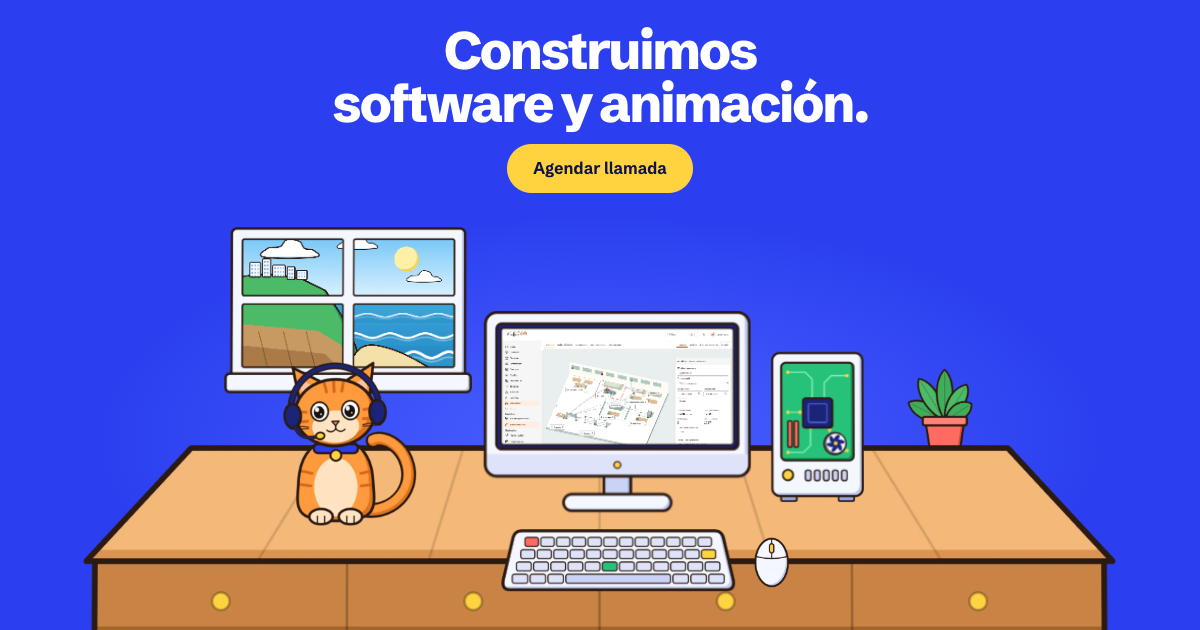
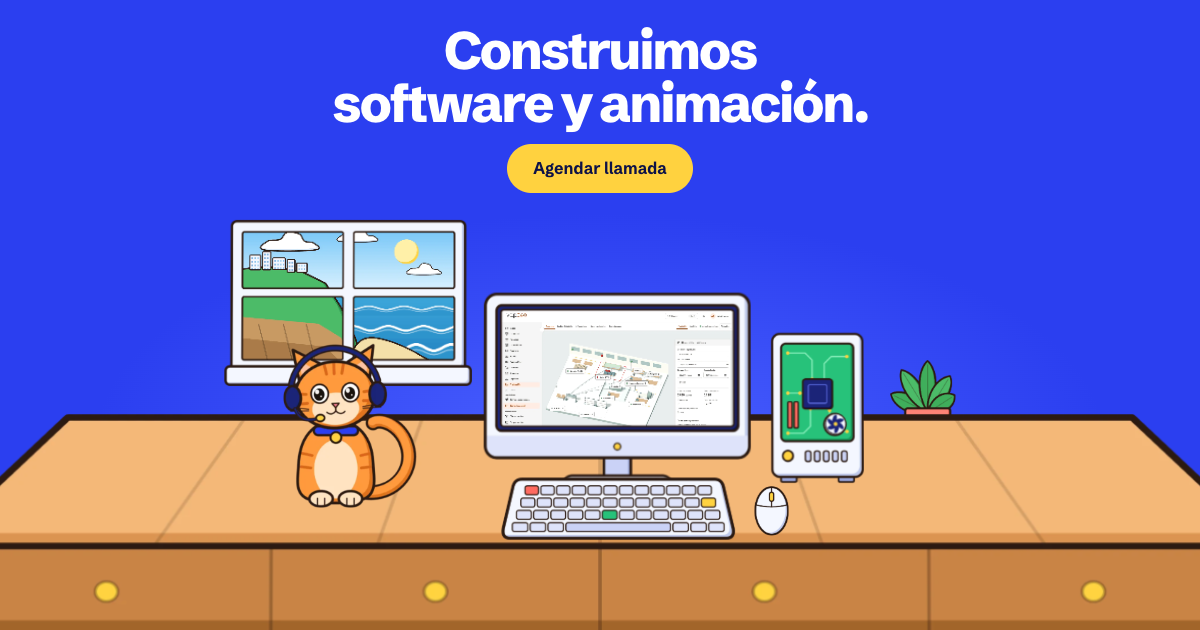
fix: mesa a todo el ancho con todo apoyado; sin buses horizontales; pista amarilla continua; Más proyectos en sección propia conectada a la pista y unida con Animación

Changed region(s): [[0.0, 0.3317, 1.0, 1.0]]

diff --git a/src/styles/home-anim.css b/src/styles/home-anim.css
@@ -356,3 +356,62 @@
   .hm-wave, .hm-fan, .hm-bus-track, .hm-strip-track, .hm-trace-chip--s1, .hm-trace-chip--s2 { animation: none; }
 }
 .hm-s-planta { bottom: 41%; }
+
+/* ============================================
+   v7 — mesa a todo el ancho con todo apoyado encima; una sola pista amarilla continua; «Más proyectos» en sección propia.
+   ============================================ */
+.hm-hero { --sh: min(47.6vw, 66svh); }
+.hm-s-mesa { left: calc(50% - 56vw); width: 112vw; bottom: -2%; height: 54%; }
+.hm-s-mesa img { width: 100%; height: 100%; }
+.hm-s-win { top: -2%; }
+.hm-s-planta { bottom: 43%; left: 84%; }
+.hm-s-torre { bottom: 35.5%; }
+.hm-s-monitor { bottom: 33.5%; }
+.hm-s-apolo { bottom: 31%; }
+.hm-s-teclado { bottom: 24.5%; }
+.hm-s-raton { bottom: 25.5%; }
+
+/* Circuito: solo la pista vertical, continua de arriba abajo */
+.hm-circuit { padding: 0; }
+.hm-circuit .hm-wrap { position: relative; }
+.hm-trace-rail { background: #FFD23F; opacity: 0.22; }
+.hm-stop:first-child .hm-trace::before { content: ''; position: absolute; left: 50%; top: -1px; width: 22px; height: 22px; margin-left: -11px; border-radius: 50%; background: #FFD23F; box-shadow: 0 0 0 5px #0D1247, 0 0 0 8px #FFD23F; z-index: 2; }
+
+/* Más proyectos: sección aparte (azul), colgada de la misma pista */
+.hm-more { position: relative; background: #2B3FF0; padding: 0 0 clamp(70px, 9vw, 130px); }
+.hm-more::before { content: ''; position: absolute; left: 50%; top: 0; width: 6px; height: clamp(70px, 9vw, 130px); margin-left: -3px; background: #FFD23F; }
+.hm-more::after { content: ''; position: absolute; left: 50%; bottom: 0; width: 6px; height: clamp(70px, 9vw, 130px); margin-left: -3px; background: #FFD23F; }
+.hm-more-head { display: flex; justify-content: center; padding-top: clamp(70px, 9vw, 130px); }
+.hm-more-head h2 { position: relative; z-index: 1; padding: 12px 26px; border-radius: 999px; background: #FFD23F; color: #0D1247; font-size: clamp(1.2rem, 2vw, 1.7rem); font-weight: 800; letter-spacing: -0.02em; box-shadow: 0 0 0 4px #0D1247; }
+.hm-more-grid { position: relative; list-style: none; display: grid; grid-template-columns: repeat(4, minmax(0, 1fr)); gap: clamp(56px, 6vw, 84px) clamp(14px, 1.6vw, 26px); margin-top: clamp(46px, 5vw, 70px); padding-top: clamp(40px, 4vw, 56px); }
+/* bus horizontal de cada fila y tronco central */
+.hm-more-grid::before { content: ''; position: absolute; left: 50%; top: calc(clamp(46px, 5vw, 70px) * -1); bottom: calc(clamp(70px, 9vw, 130px) * -1); width: 6px; margin-left: -3px; background: #FFD23F; z-index: 0; }
+.hm-more-grid li { position: relative; z-index: 1; min-width: 0; }
+.hm-more-grid li::before { content: ''; position: absolute; left: calc(clamp(14px, 1.6vw, 26px) / -2); right: calc(clamp(14px, 1.6vw, 26px) / -2); top: calc(clamp(40px, 4vw, 56px) * -1); height: 6px; margin-top: -3px; background: #FFD23F; }
+.hm-more-grid li:nth-child(4n + 1)::before { left: 50%; }
+.hm-more-grid li:nth-child(4n)::before { right: 50%; }
+.hm-more-grid li::after { content: ''; position: absolute; left: 50%; top: calc(clamp(40px, 4vw, 56px) * -1); width: 6px; height: clamp(40px, 4vw, 56px); margin-left: -3px; background: #FFD23F; }
+.hm-more-chip { position: absolute; left: 50%; top: calc(clamp(40px, 4vw, 56px) * -1); width: clamp(34px, 3.4vw, 50px); transform: translate(-50%, -50%); z-index: 2; }
+.hm-more-shot { position: relative; z-index: 1; aspect-ratio: 16 / 10; overflow: hidden; border-radius: 12px; background: #0D1247; box-shadow: 0 0 0 4px #0D1247; }
+.hm-more-shot img { display: block; width: 100%; height: 100%; object-fit: cover; object-position: top; transition: transform 0.8s cubic-bezier(0.16, 1, 0.3, 1); }
+.hm-more-grid li:hover .hm-more-shot img { transform: scale(1.05); }
+.hm-more-grid h3 { margin: 14px 0 6px; color: #fff; font-size: clamp(1rem, 1.3vw, 1.25rem); font-weight: 800; letter-spacing: -0.01em; line-height: 1.15; min-height: 2.3em; }
+.hm-more .hm-muted { color: #D9DEFF; }
+
+/* Unión con la sección de Animación: la pista entra por arriba del panel */
+.hm-anim { position: relative; padding-top: 0; }
+.hm-anim-panel { position: relative; }
+.hm-anim .hm-wrap { position: relative; }
+.hm-anim .hm-wrap::before { content: ''; position: absolute; left: 50%; top: -11px; width: 22px; height: 22px; margin-left: -11px; border-radius: 50%; background: #FFD23F; box-shadow: 0 0 0 4px #0D1247; z-index: 3; }
+
+@media (max-width: 1000px) {
+  .hm-more-grid { grid-template-columns: repeat(2, minmax(0, 1fr)); }
+  .hm-more-grid li:nth-child(4n + 1)::before, .hm-more-grid li:nth-child(4n)::before { left: calc(clamp(14px, 1.6vw, 26px) / -2); right: calc(clamp(14px, 1.6vw, 26px) / -2); }
+  .hm-more-grid li:nth-child(2n + 1)::before { left: 50%; }
+  .hm-more-grid li:nth-child(2n)::before { right: 50%; }
+}
+@media (max-width: 820px) {
+  .hm-s-mesa { left: -8%; width: 116%; }
+  .hm-stop:first-child .hm-trace::before { display: none; }
+}
+.hm-more-grid { row-gap: clamp(100px, 10vw, 140px); }

diff --git a/src/components/sections/FeaturedProjects.jsx b/src/components/sections/FeaturedProjects.jsx
@@ -8,7 +8,6 @@ import chip from '../../assets/animacion/pc/chip.webp';
 
 // Proyecto principal → empresa cuyo logo lo acompaña
 const MAIN = [['inperca', 'inperca'], ['vap360', 'vapretail'], ['sirius', 'planetarium'], ['totemiq', 'totemiq'], ['totems-del-inca', 'totems']];
-const CHIPS = [0, 1, 2, 3, 4, 5, 6, 7];
 
 const Status = ({ p }) => {
     const { t } = useTranslation();
@@ -16,15 +15,6 @@ const Status = ({ p }) => {
     if (p.private) return <span className="hm-tag">{t('rd.cases.private')}</span>;
     return <span className="hm-muted">{p.categoryLabel}</span>;
 };
-
-/** Bus del circuito: una pista horizontal por la que cruzan microprocesadores de lado a lado. */
-const Bus = ({ rev }) => (
-    <div className={`hm-bus${rev ? ' is-rev' : ''}`} aria-hidden="true">
-        <ul className="hm-bus-track">
-            {[...CHIPS, ...CHIPS].map((k, i) => <li key={i}><img src={chip} alt="" loading="lazy" decoding="async" /></li>)}
-        </ul>
-    </div>
-);
 
 /** Una parada del circuito: la pista amarilla baja con el scroll y se ramifica hacia el proyecto. */
 const Stop = ({ slug, clientId, flip }) => {
@@ -61,9 +51,7 @@ const Stop = ({ slug, clientId, flip }) => {
                 <span className="hm-trace-rail" />
                 <Motion.span className="hm-trace-live" style={reduce ? undefined : { scaleY: down }} />
                 <Motion.span className="hm-trace-branch" style={reduce ? undefined : { scaleX: side }} />
-                <img className="hm-trace-chip hm-trace-chip--s1" src={chip} alt="" loading="lazy" decoding="async" />
                 <img className="hm-trace-chip" src={chip} alt="" loading="lazy" decoding="async" />
-                <img className="hm-trace-chip hm-trace-chip--s2" src={chip} alt="" loading="lazy" decoding="async" />
             </div>
 
             <Motion.div className="hm-stop-client" style={reduce ? undefined : { opacity: pop }}>
@@ -73,31 +61,36 @@ const Stop = ({ slug, clientId, flip }) => {
     );
 };
 
-/** Trabajo: se baja por el circuito, con buses de microprocesadores que cruzan de lado a lado. Al final, el resto en una sola fila que avanza sola. */
+/** Trabajo: se baja por el circuito (una sola pista amarilla continua). Los demás proyectos van en su propia sección, conectados a la misma pista. */
 const FeaturedProjects = () => {
     const { t } = useTranslation();
     const mainSlugs = MAIN.map(([slug]) => slug);
     const rest = projects.filter((p) => !mainSlugs.includes(p.slug));
-    const card = (p, hidden) => (
-        <li className="hm-mini" key={`${p.id}-${hidden}`} aria-hidden={hidden || undefined}>
-            <div className={`hm-mini-shot is-${p.orientation}`}><img src={p.thumbnail} alt="" loading="lazy" decoding="async" /></div>
-            <h4>{t(p.name)}</h4>
-            {!hidden && <Status p={p} />}
-        </li>
-    );
 
     return (
-        <section className="hm-circuit" id="trabajo">
-            <Bus />
-            <div className="hm-wrap">
-                {MAIN.map(([slug, clientId], i) => <Stop key={slug} slug={slug} clientId={clientId} flip={i % 2 === 1} />)}
-            </div>
-            <Bus rev />
-            <div className="hm-wrap"><h2 className="hm-h3">{t('rd.cases.more')}</h2></div>
-            <div className="hm-strip">
-                <ul className="hm-strip-track">{rest.map((p) => card(p, false))}{rest.map((p) => card(p, true))}</ul>
-            </div>
-        </section>
+        <>
+            <section className="hm-circuit" id="trabajo">
+                <div className="hm-wrap">
+                    {MAIN.map(([slug, clientId], i) => <Stop key={slug} slug={slug} clientId={clientId} flip={i % 2 === 1} />)}
+                </div>
+            </section>
+
+            <section className="hm-more">
+                <div className="hm-wrap">
+                    <div className="hm-more-head"><h2>{t('rd.cases.more')}</h2></div>
+                    <ul className="hm-more-grid">
+                        {rest.map((p) => (
+                            <li key={p.id}>
+                                <img className="hm-more-chip" src={chip} alt="" loading="lazy" decoding="async" aria-hidden="true" />
+                                <div className="hm-more-shot"><img src={p.thumbnail} alt="" loading="lazy" decoding="async" /></div>
+                                <h3>{t(p.name)}</h3>
+                                <Status p={p} />
+                            </li>
+                        ))}
+                    </ul>
+                </div>
+            </section>
+        </>
     );
 };
 
